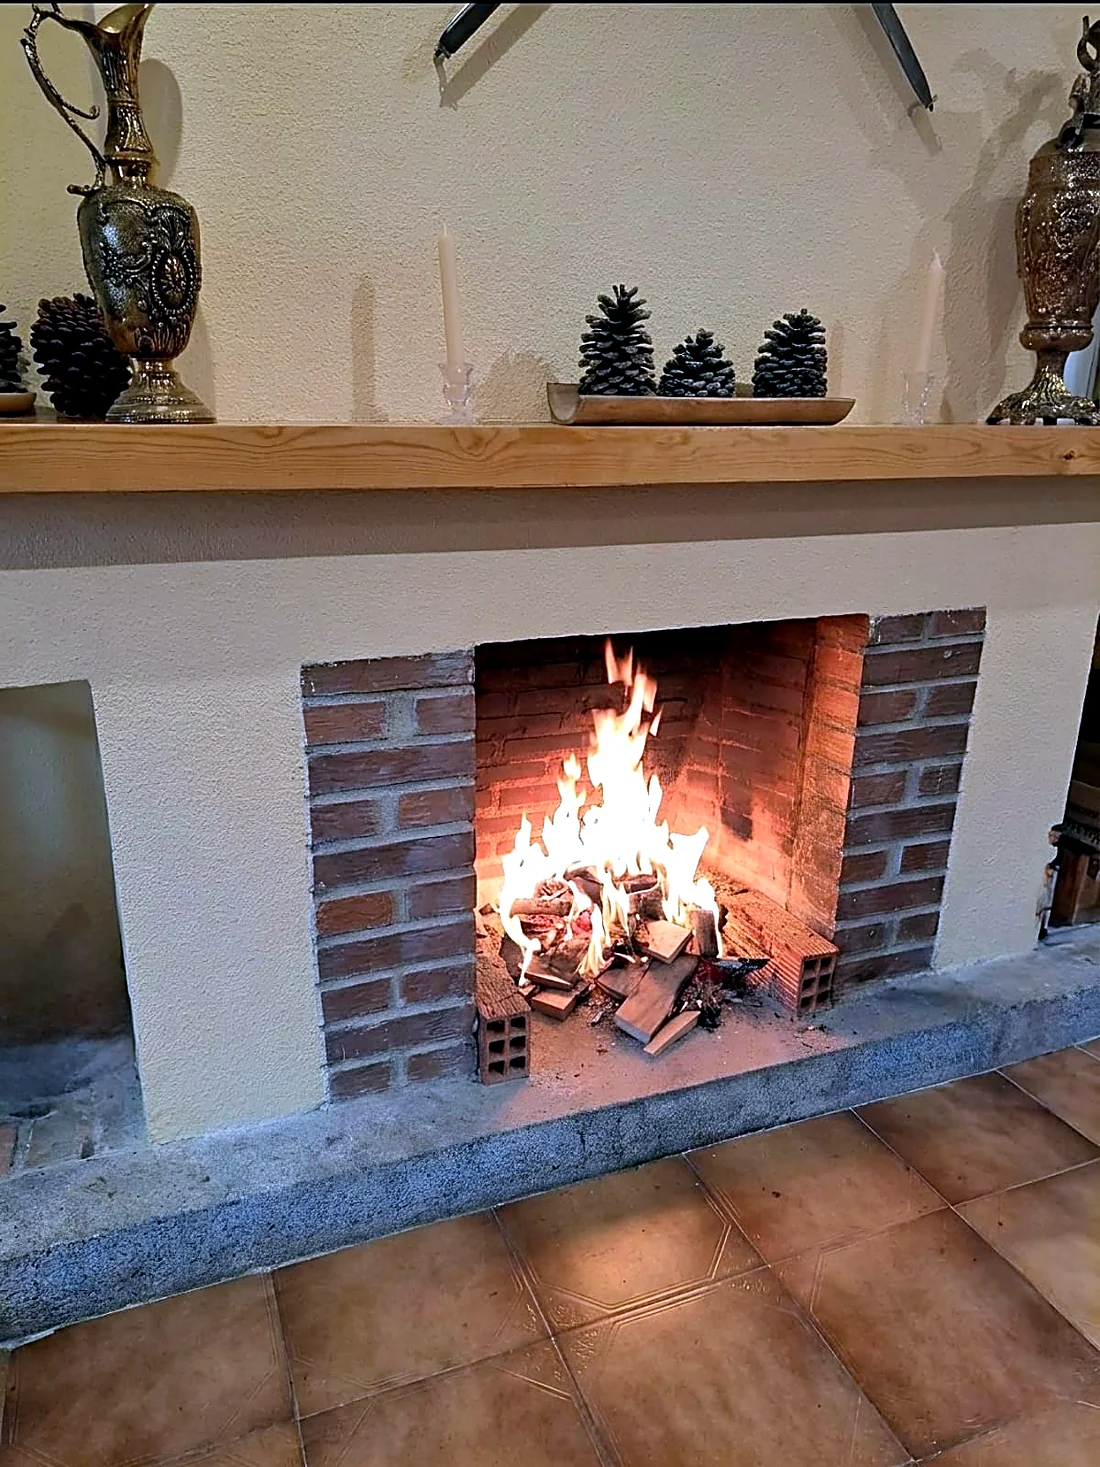
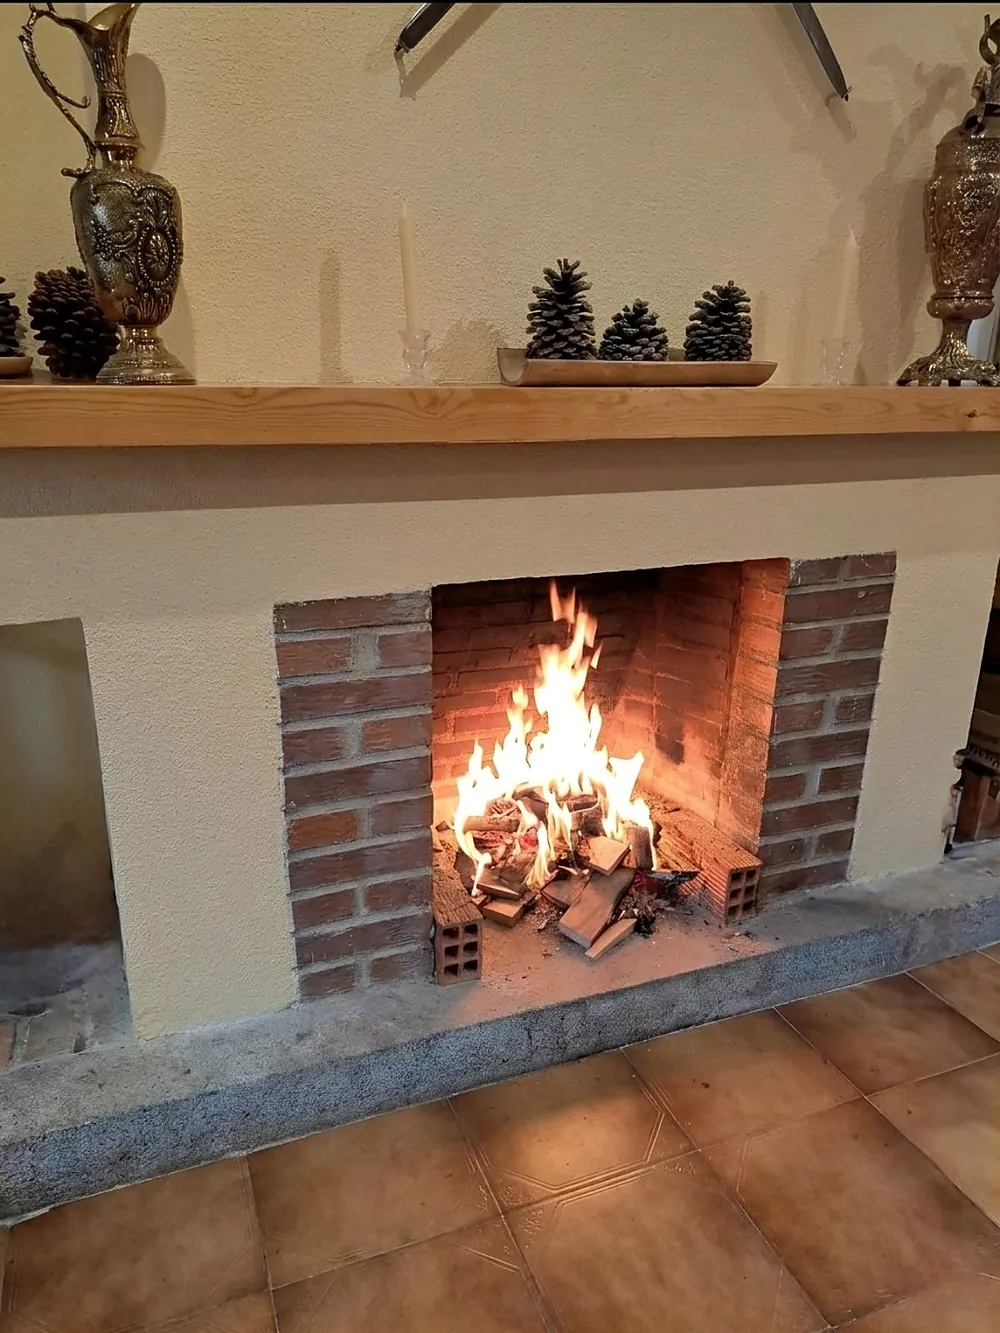
Arreglar boton Reservar descentrado en movil y carga de la foto de la chimenea
- .nav-brand tenia una regla display:flex posterior que anulaba el display:none,
  asi que seguia ocupando sitio + gap y empujaba el boton 10px a la derecha
- chimenea.webp reexportada desde el original: 327 KB -> 152 KB (1000px)
- Quitado loading=lazy de la chimenea: el navegador no llegaba a pedirla
- Anadidos width/height para evitar saltos de maquetacion
- Cache-buster 20260722g

diff --git a/styles.css b/styles.css
@@ -391,21 +391,16 @@ ul { list-style: none; padding: 0; }
   border-bottom: 1px solid #e2e2e2;
   transition: padding 0.5s var(--ease-out), box-shadow 0.5s var(--ease-out);
 }
-/* El enlace del logo en el nav ya no se usa: no debe ocupar sitio ni romper el centrado */
-.nav-brand { display: none; }
 .nav.is-scrolled {
   padding-top: 0.7rem;
   padding-bottom: 0.7rem;
   box-shadow: 0 1px 12px rgba(0,0,0,0.06);
 }
 
+/* El enlace del logo del nav ya no se usa (el logo vive arriba, sobre el blanco).
+   display:none para que no ocupe sitio ni descentre el botón Reservar en móvil. */
 .nav-brand {
-  display: flex; align-items: center; gap: 0.7rem;
-  font-family: var(--serif);
-  font-size: 1.1rem;
-  font-style: italic;
-  font-weight: 400;
-  color: var(--cream);
+  display: none;
 }
 .nav-brand-mark {
   color: var(--accent);

diff --git a/index.html b/index.html
@@ -23,7 +23,7 @@
 
   <link rel="preload" as="image" href="assets/img/hero-piscina.webp" fetchpriority="high" />
 
-  <link rel="stylesheet" href="styles.css?v=20260722e" />
+  <link rel="stylesheet" href="styles.css?v=20260722g" />
 </head>
 <body class="theme-dark">
 
@@ -138,7 +138,7 @@
           </header>
 
           <figure class="manifesto-figure reveal" data-reveal-mask>
-            <img src="assets/img/chimenea.webp?v=5" loading="lazy" decoding="async" alt="Chimenea de leña encendida en el salón" />
+            <img src="assets/img/chimenea.webp?v=7" width="1000" height="1333" decoding="async" alt="Chimenea de leña encendida en el salón" />
             <figcaption>La chimenea encendida · Foto del propietario</figcaption>
           </figure>
         </div>
@@ -469,6 +469,6 @@
   <script defer src="lib/gsap.min.js?v=20260613"></script>
   <script defer src="lib/ScrollTrigger.min.js?v=20260613"></script>
   <script defer src="lib/manifest.js?v=20260613"></script>
-  <script defer src="main.js?v=20260722e"></script>
+  <script defer src="main.js?v=20260722g"></script>
 </body>
 </html>

diff --git a/aviso-legal.html b/aviso-legal.html
@@ -15,7 +15,7 @@
   <link rel="preconnect" href="https://fonts.gstatic.com" crossorigin />
   <link rel="stylesheet" href="https://fonts.googleapis.com/css2?family=Fraunces:ital,opsz,wght,SOFT@0,9..144,300..700,30..100;1,9..144,300..700,30..100&family=Inter:wght@300..600&family=JetBrains+Mono:wght@400;500&display=swap" />
 
-  <link rel="stylesheet" href="styles.css?v=20260722e" />
+  <link rel="stylesheet" href="styles.css?v=20260722g" />
 </head>
 <body class="theme-dark legal-body">
 
@@ -94,6 +94,6 @@
     </div>
   </footer>
 
-  <script defer src="main.js?v=20260722e"></script>
+  <script defer src="main.js?v=20260722g"></script>
 </body>
 </html>

diff --git a/cookies.html b/cookies.html
@@ -15,7 +15,7 @@
   <link rel="preconnect" href="https://fonts.gstatic.com" crossorigin />
   <link rel="stylesheet" href="https://fonts.googleapis.com/css2?family=Fraunces:ital,opsz,wght,SOFT@0,9..144,300..700,30..100;1,9..144,300..700,30..100&family=Inter:wght@300..600&family=JetBrains+Mono:wght@400;500&display=swap" />
 
-  <link rel="stylesheet" href="styles.css?v=20260722e" />
+  <link rel="stylesheet" href="styles.css?v=20260722g" />
 </head>
 <body class="theme-dark legal-body">
 
@@ -89,6 +89,6 @@
     </div>
   </footer>
 
-  <script defer src="main.js?v=20260722e"></script>
+  <script defer src="main.js?v=20260722g"></script>
 </body>
 </html>

diff --git a/privacidad.html b/privacidad.html
@@ -15,7 +15,7 @@
   <link rel="preconnect" href="https://fonts.gstatic.com" crossorigin />
   <link rel="stylesheet" href="https://fonts.googleapis.com/css2?family=Fraunces:ital,opsz,wght,SOFT@0,9..144,300..700,30..100;1,9..144,300..700,30..100&family=Inter:wght@300..600&family=JetBrains+Mono:wght@400;500&display=swap" />
 
-  <link rel="stylesheet" href="styles.css?v=20260722e" />
+  <link rel="stylesheet" href="styles.css?v=20260722g" />
 </head>
 <body class="theme-dark legal-body">
 
@@ -102,6 +102,6 @@
     </div>
   </footer>
 
-  <script defer src="main.js?v=20260722e"></script>
+  <script defer src="main.js?v=20260722g"></script>
 </body>
 </html>